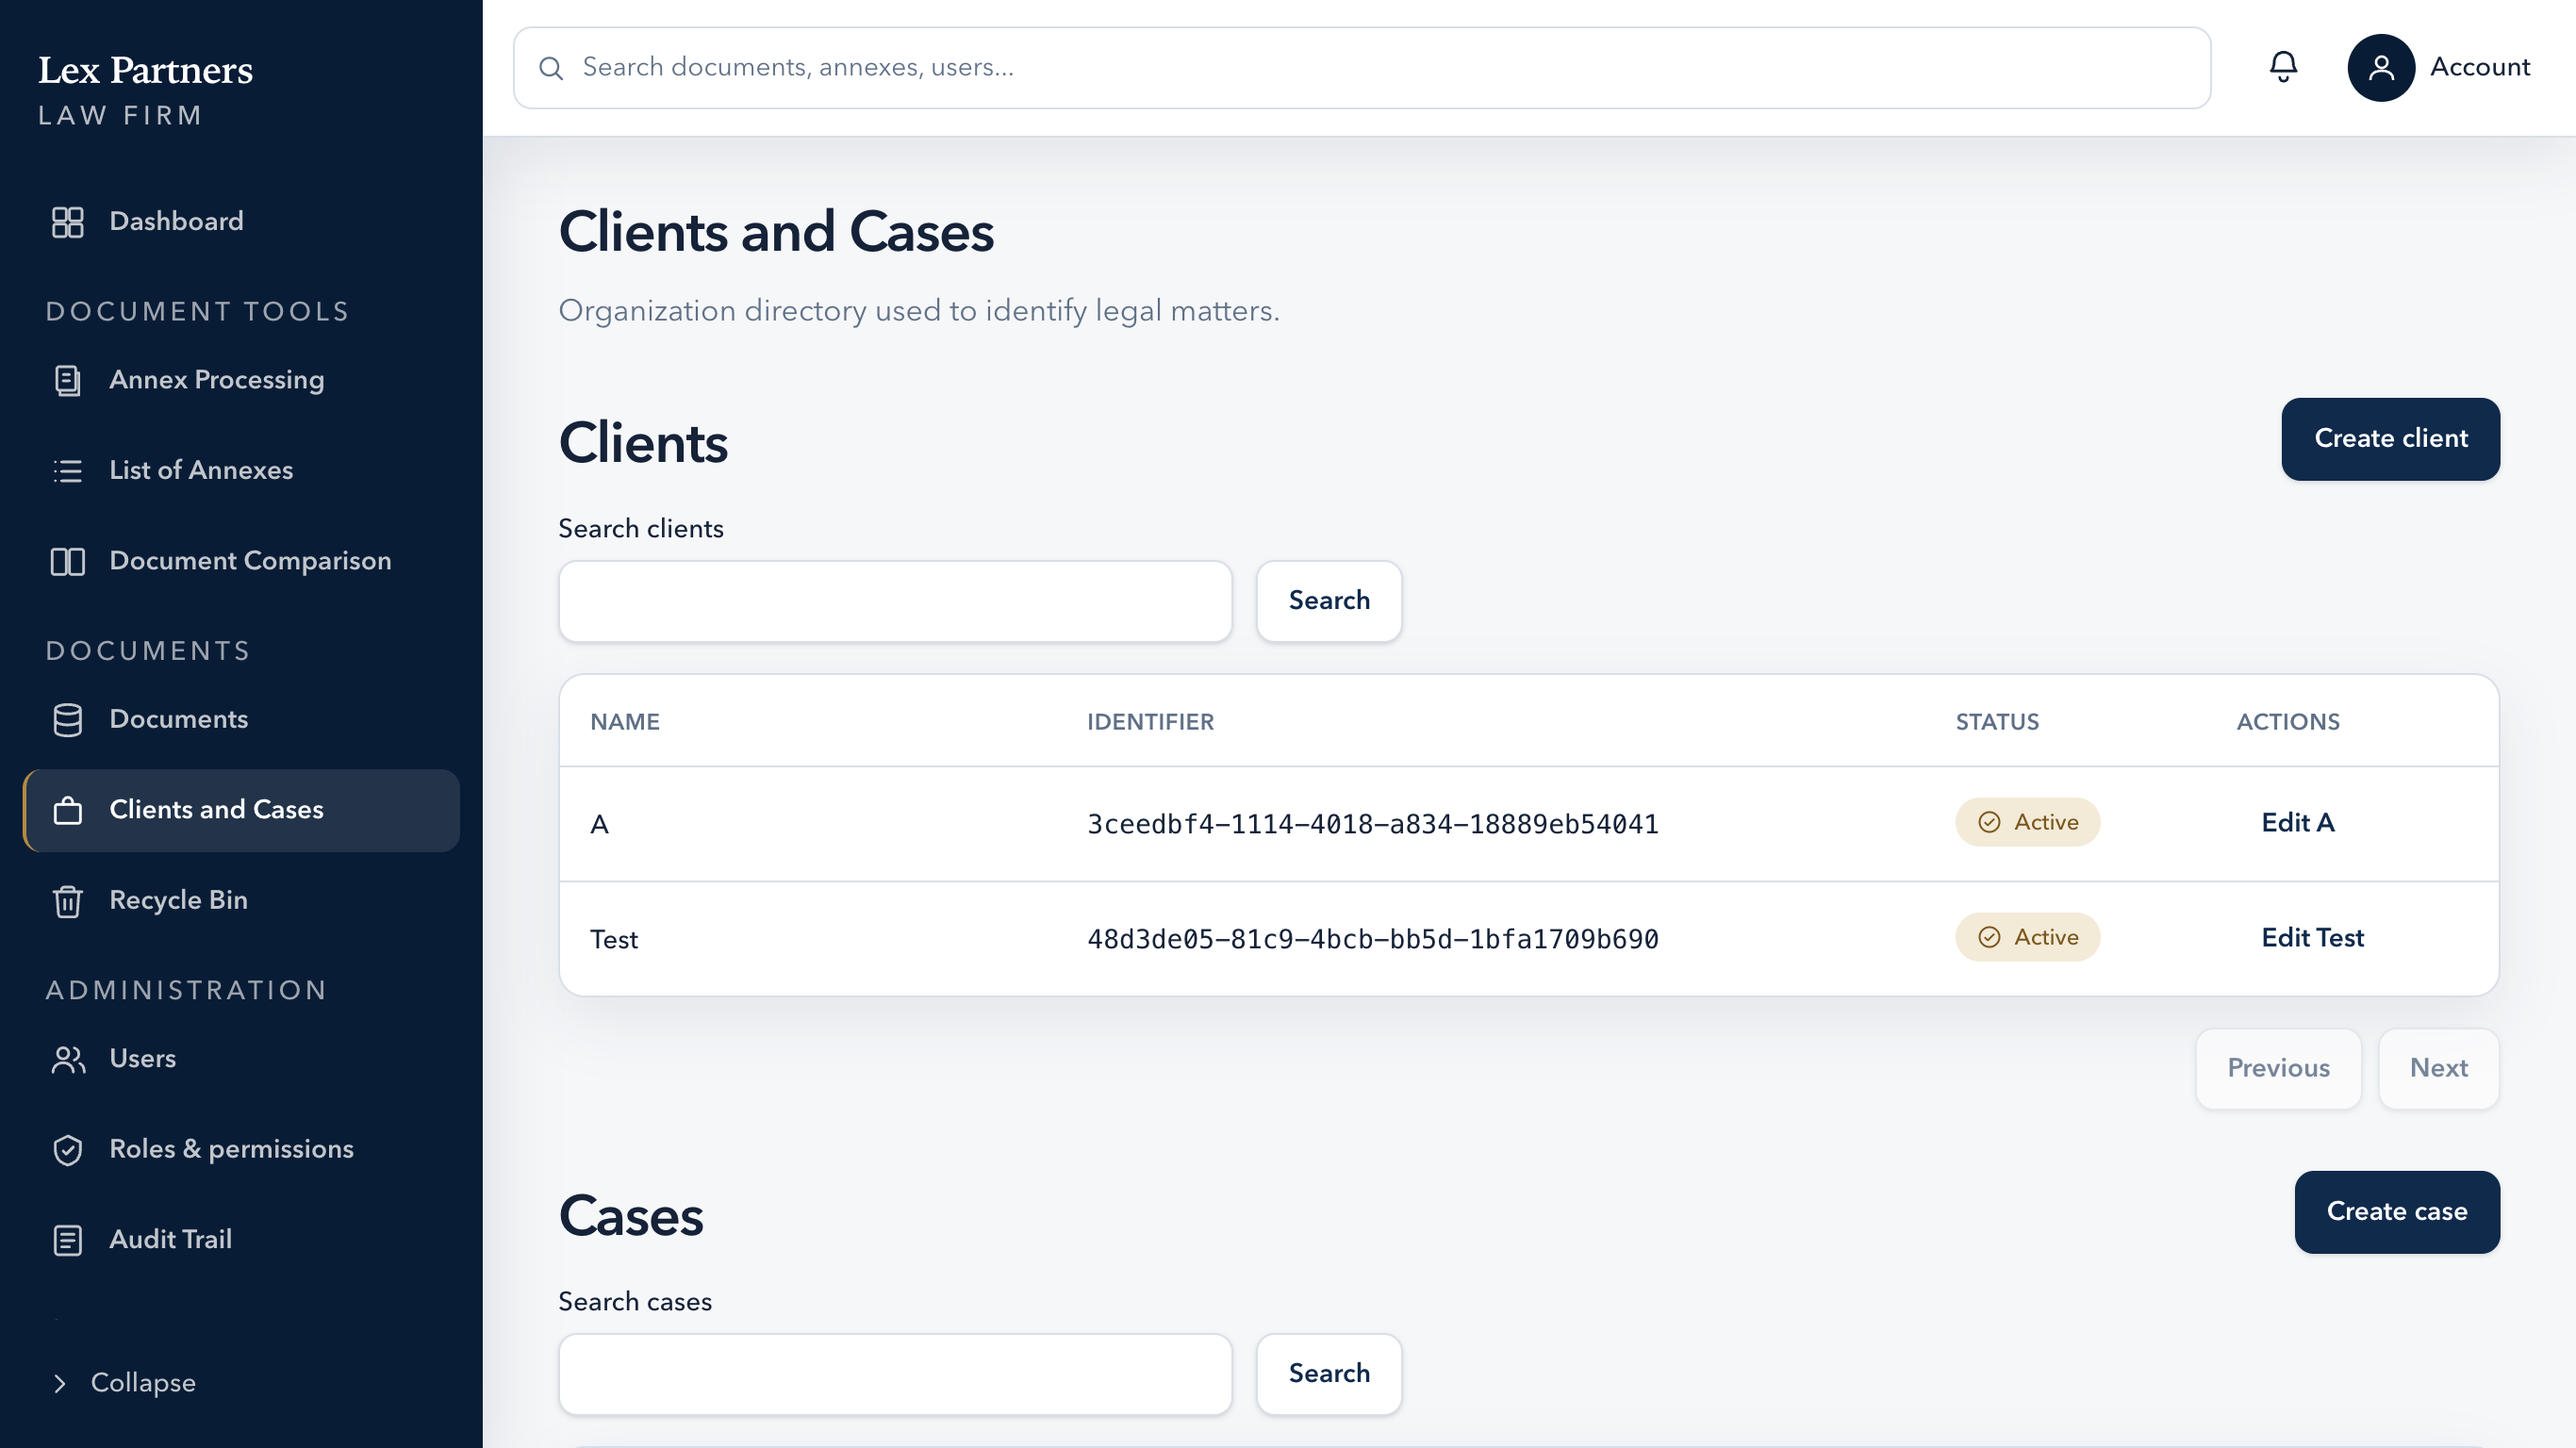
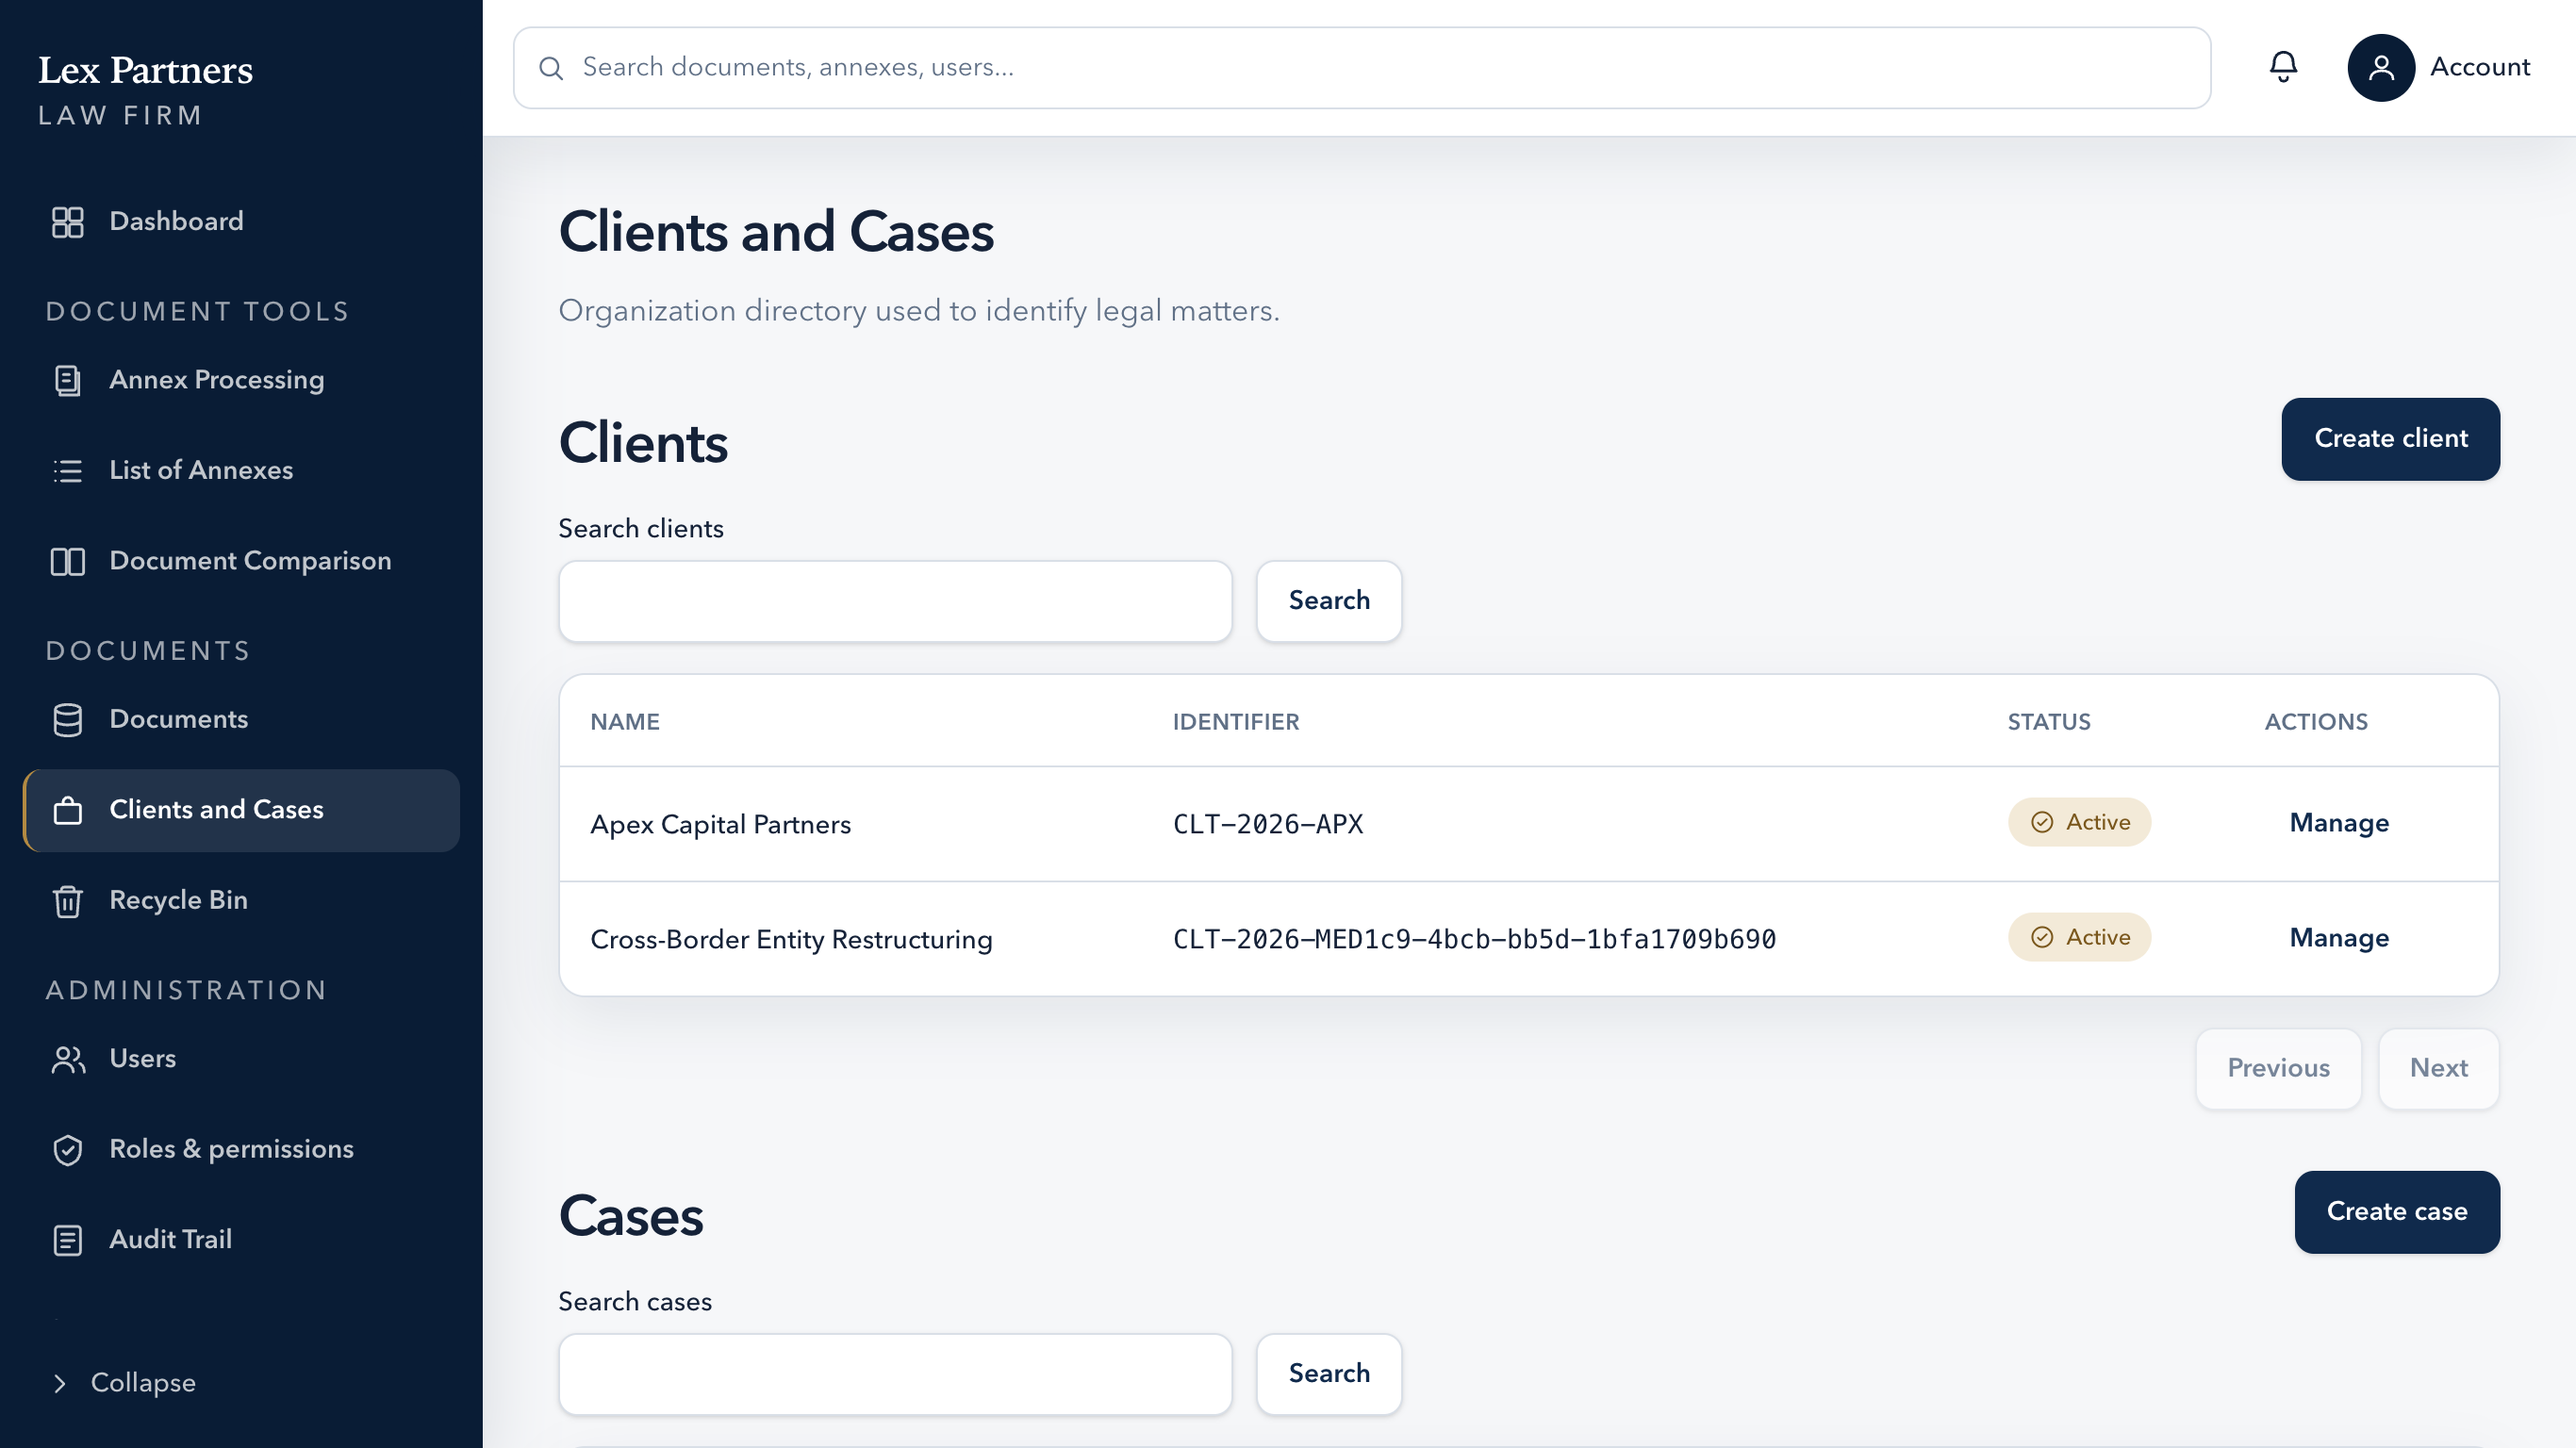
Scale down screenshot showcase and replace raw sample filenames with realistic legal documents

diff --git a/style.css b/style.css
@@ -691,8 +691,8 @@ a {
 }
 
 .web-app-container {
-  max-width: 1080px;
-  margin: 40px auto 0;
+  max-width: 820px;
+  margin: 36px auto 0;
 }
 
 .web-app-window {
@@ -782,12 +782,12 @@ a {
   display: inline-flex;
   align-items: center;
   gap: 8px;
-  padding: 10px 20px;
+  padding: 8px 16px;
   background: #FFFFFF;
   border: 1px solid var(--border-stone);
   border-radius: var(--radius-full);
   font-family: var(--font-sans);
-  font-size: 0.86rem;
+  font-size: 0.82rem;
   font-weight: 600;
   color: var(--text-muted);
   cursor: pointer;
@@ -834,7 +834,7 @@ a {
 
 .screenshot-img-container {
   width: 100%;
-  max-height: 620px;
+  max-height: 390px;
   overflow-y: auto;
   scrollbar-width: thin;
   position: relative;
@@ -863,8 +863,8 @@ a {
   display: flex;
   align-items: center;
   justify-content: space-between;
-  gap: 20px;
-  padding: 18px 28px;
+  gap: 16px;
+  padding: 14px 22px;
   background: #FFFFFF;
   border-top: 1px solid var(--border-subtle);
   flex-wrap: wrap;
@@ -918,10 +918,9 @@ a {
 .product-proof-grid {
   display: grid;
   grid-template-columns: repeat(3, 1fr);
-  gap: 20px;
-  margin-top: 28px;
+  gap: 16px;
+  margin-top: 22px;
 }
-
 .proof-card {
   background: #FFFFFF;
   border: 1px solid var(--border-subtle);

diff --git a/index.html b/index.html
@@ -10,7 +10,7 @@
   <link rel="preconnect" href="https://fonts.gstatic.com" crossorigin>
   <link href="https://fonts.googleapis.com/css2?family=Instrument+Serif:ital@0;1&family=Outfit:wght@300;400;500;600;700;800&display=swap" rel="stylesheet">
   <link rel="icon" type="image/svg+xml" href="images/draftstack-mark.svg">
-  <link rel="stylesheet" href="style.css?v=softly-9">
+  <link rel="stylesheet" href="style.css?v=softly-10">
 </head>
 <body>
   <!-- Ambient Fluid Floating Blobs -->
